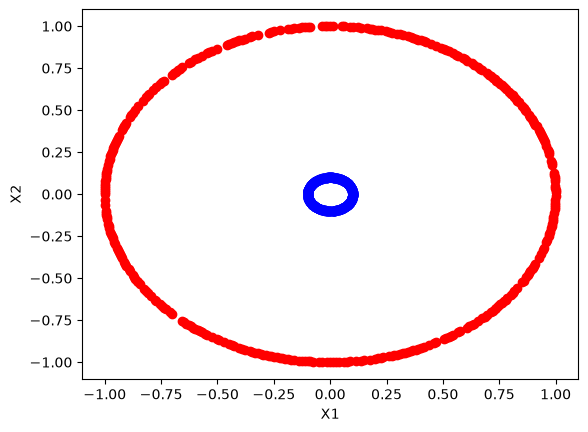
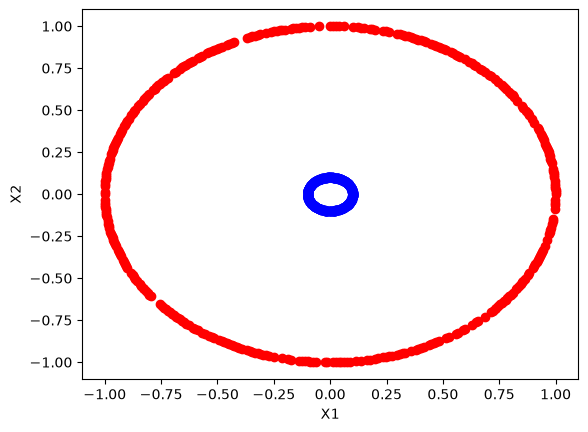
Sync MLD from ML

diff --git a/docs/02. Keras.html b/docs/02. Keras.html
@@ -304,7 +304,7 @@ window.Quarto = {
 <section id="데이터" class="level2" data-number="2.1">
 <h2 data-number="2.1" class="anchored" data-anchor-id="데이터"><span class="header-section-number">2.1</span> 데이터</h2>
 <p>아래 예제에서는 <a href="https://scikit-learn.org/stable/modules/generated/sklearn.datasets.make_circles.html">sklearn.datasets.make_circles</a>로 생성된 가상의 데이터를 통한 실습을 진행해 본다.</p>
-<div id="88801a4d-a0cb-4829-ab6a-2c6bd42aecd9" class="cell" data-quarto-private-1="{&quot;key&quot;:&quot;execution&quot;,&quot;value&quot;:{&quot;iopub.execute_input&quot;:&quot;2026-07-19T09:36:19.293541Z&quot;,&quot;iopub.status.busy&quot;:&quot;2026-07-19T09:36:19.293541Z&quot;,&quot;iopub.status.idle&quot;:&quot;2026-07-19T09:36:21.800364Z&quot;,&quot;shell.execute_reply&quot;:&quot;2026-07-19T09:36:21.800364Z&quot;}}" data-execution_count="1">
+<div id="88801a4d-a0cb-4829-ab6a-2c6bd42aecd9" class="cell" data-quarto-private-1="{&quot;key&quot;:&quot;execution&quot;,&quot;value&quot;:{&quot;iopub.execute_input&quot;:&quot;2026-07-19T12:25:03.441601Z&quot;,&quot;iopub.status.busy&quot;:&quot;2026-07-19T12:25:03.441601Z&quot;,&quot;iopub.status.idle&quot;:&quot;2026-07-19T12:25:04.827017Z&quot;,&quot;shell.execute_reply&quot;:&quot;2026-07-19T12:25:04.827017Z&quot;}}" data-execution_count="1">
 <div class="code-copy-outer-scaffold"><div class="sourceCode cell-code" id="cb1"><pre class="sourceCode python code-with-copy"><code class="sourceCode python"><span id="cb1-1"><a href="#cb1-1" aria-hidden="true" tabindex="-1"></a><span class="im">from</span> sklearn.datasets <span class="im">import</span> make_circles</span>
 <span id="cb1-2"><a href="#cb1-2" aria-hidden="true" tabindex="-1"></a></span>
 <span id="cb1-3"><a href="#cb1-3" aria-hidden="true" tabindex="-1"></a>X, targets <span class="op">=</span> make_circles(n_samples <span class="op">=</span> <span class="dv">1000</span>, factor<span class="op">=</span><span class="fl">0.1</span>)</span>
@@ -315,7 +315,7 @@ window.Quarto = {
 </div>
 <p><code>X</code>는 두 개의 특성변수로 구성된다.</p>
 <p>타깃 변수는 두 개의 클래스로 구성된다.</p>
-<div id="fd694b83-f9b6-4407-b958-e592b610cb41" class="cell" data-quarto-private-1="{&quot;key&quot;:&quot;execution&quot;,&quot;value&quot;:{&quot;iopub.execute_input&quot;:&quot;2026-07-19T09:36:21.802458Z&quot;,&quot;iopub.status.busy&quot;:&quot;2026-07-19T09:36:21.802458Z&quot;,&quot;iopub.status.idle&quot;:&quot;2026-07-19T09:36:22.453850Z&quot;,&quot;shell.execute_reply&quot;:&quot;2026-07-19T09:36:22.453850Z&quot;}}" data-execution_count="2">
+<div id="fd694b83-f9b6-4407-b958-e592b610cb41" class="cell" data-quarto-private-1="{&quot;key&quot;:&quot;execution&quot;,&quot;value&quot;:{&quot;iopub.execute_input&quot;:&quot;2026-07-19T12:25:04.827017Z&quot;,&quot;iopub.status.busy&quot;:&quot;2026-07-19T12:25:04.827017Z&quot;,&quot;iopub.status.idle&quot;:&quot;2026-07-19T12:25:05.230054Z&quot;,&quot;shell.execute_reply&quot;:&quot;2026-07-19T12:25:05.229508Z&quot;}}" data-execution_count="2">
 <div class="code-copy-outer-scaffold"><div class="sourceCode cell-code" id="cb2"><pre class="sourceCode python code-with-copy"><code class="sourceCode python"><span id="cb2-1"><a href="#cb2-1" aria-hidden="true" tabindex="-1"></a><span class="im">import</span> matplotlib.pyplot <span class="im">as</span> plt</span>
 <span id="cb2-2"><a href="#cb2-2" aria-hidden="true" tabindex="-1"></a>plt.scatter(X_training[Targets_training<span class="op">==</span><span class="dv">0</span>, <span class="dv">0</span>], X_training[Targets_training<span class="op">==</span><span class="dv">0</span>, <span class="dv">1</span>], color<span class="op">=</span><span class="st">'red'</span>)</span>
 <span id="cb2-3"><a href="#cb2-3" aria-hidden="true" tabindex="-1"></a>plt.scatter(X_training[Targets_training<span class="op">==</span><span class="dv">1</span>, <span class="dv">0</span>], X_training[Targets_training<span class="op">==</span><span class="dv">1</span>, <span class="dv">1</span>], color<span class="op">=</span><span class="st">'blue'</span>)</span>
@@ -338,18 +338,21 @@ window.Quarto = {
 <p><a href="https://keras.io/api/models/sequential/"><code>tensorflow.keras.Sequential</code></a> : 가장 간단한 모델 유형으로, layer를 선형으로 쌓은 구조이다. 즉, 각 layer가 하나의 입력과 하나의 출력만을 갖고, 순차적으로 연결된다.</p>
 <p>여러 입력이나 출력, 분기 또는 잔차 연결이 있는 복잡한 모델에는 Functional API 또는 모델 subclassing을 사용할 수 있다.</p>
 <p>다음은 sequential 모델의 예시이다.</p>
-<div id="436a456f-56ed-40c2-b49c-dfc74572dbf8" class="cell" data-quarto-private-1="{&quot;key&quot;:&quot;execution&quot;,&quot;value&quot;:{&quot;iopub.execute_input&quot;:&quot;2026-07-19T09:36:22.457775Z&quot;,&quot;iopub.status.busy&quot;:&quot;2026-07-19T09:36:22.457329Z&quot;,&quot;iopub.status.idle&quot;:&quot;2026-07-19T09:36:26.281742Z&quot;,&quot;shell.execute_reply&quot;:&quot;2026-07-19T09:36:26.281742Z&quot;}}" data-execution_count="3">
+<div id="436a456f-56ed-40c2-b49c-dfc74572dbf8" class="cell" data-quarto-private-1="{&quot;key&quot;:&quot;execution&quot;,&quot;value&quot;:{&quot;iopub.execute_input&quot;:&quot;2026-07-19T12:25:05.230054Z&quot;,&quot;iopub.status.busy&quot;:&quot;2026-07-19T12:25:05.230054Z&quot;,&quot;iopub.status.idle&quot;:&quot;2026-07-19T12:25:09.493031Z&quot;,&quot;shell.execute_reply&quot;:&quot;2026-07-19T12:25:09.492675Z&quot;}}" data-execution_count="3">
 <div class="code-copy-outer-scaffold"><div class="sourceCode cell-code" id="cb3"><pre class="sourceCode python code-with-copy"><code class="sourceCode python"><span id="cb3-1"><a href="#cb3-1" aria-hidden="true" tabindex="-1"></a><span class="im">from</span> tensorflow.keras <span class="im">import</span> Sequential</span>
 <span id="cb3-2"><a href="#cb3-2" aria-hidden="true" tabindex="-1"></a></span>
 <span id="cb3-3"><a href="#cb3-3" aria-hidden="true" tabindex="-1"></a>model <span class="op">=</span> Sequential()</span></code></pre></div><button title="Copy to Clipboard" class="code-copy-button"><i class="bi"></i></button></div>
 </div>
-<div id="c77ee398-1b2c-4e76-b372-3ba3f7fbe887" class="cell" data-quarto-private-1="{&quot;key&quot;:&quot;execution&quot;,&quot;value&quot;:{&quot;iopub.execute_input&quot;:&quot;2026-07-19T09:36:26.281742Z&quot;,&quot;iopub.status.busy&quot;:&quot;2026-07-19T09:36:26.281742Z&quot;,&quot;iopub.status.idle&quot;:&quot;2026-07-19T09:36:26.289558Z&quot;,&quot;shell.execute_reply&quot;:&quot;2026-07-19T09:36:26.289558Z&quot;}}">
+<div id="c77ee398-1b2c-4e76-b372-3ba3f7fbe887" class="cell" data-quarto-private-1="{&quot;key&quot;:&quot;execution&quot;,&quot;value&quot;:{&quot;iopub.execute_input&quot;:&quot;2026-07-19T12:25:09.494552Z&quot;,&quot;iopub.status.busy&quot;:&quot;2026-07-19T12:25:09.494552Z&quot;,&quot;iopub.status.idle&quot;:&quot;2026-07-19T12:25:09.499001Z&quot;,&quot;shell.execute_reply&quot;:&quot;2026-07-19T12:25:09.499001Z&quot;}}" data-execution_count="4">
 <div class="code-copy-outer-scaffold"><div class="sourceCode cell-code" id="cb4"><pre class="sourceCode python code-with-copy"><code class="sourceCode python"><span id="cb4-1"><a href="#cb4-1" aria-hidden="true" tabindex="-1"></a><span class="bu">isinstance</span>(model, Sequential)</span></code></pre></div><button title="Copy to Clipboard" class="code-copy-button"><i class="bi"></i></button></div>
+<div class="cell-output cell-output-display" data-execution_count="4">
+<pre><code>True</code></pre>
 </div>
-<div id="507bf730-1f76-480c-b5bb-b5a37e29f03c" class="cell" data-quarto-private-1="{&quot;key&quot;:&quot;execution&quot;,&quot;value&quot;:{&quot;iopub.execute_input&quot;:&quot;2026-07-19T09:36:26.289558Z&quot;,&quot;iopub.status.busy&quot;:&quot;2026-07-19T09:36:26.289558Z&quot;,&quot;iopub.status.idle&quot;:&quot;2026-07-19T09:36:26.296572Z&quot;,&quot;shell.execute_reply&quot;:&quot;2026-07-19T09:36:26.296572Z&quot;}}" data-execution_count="5">
-<div class="code-copy-outer-scaffold"><div class="sourceCode cell-code" id="cb5"><pre class="sourceCode python code-with-copy"><code class="sourceCode python"><span id="cb5-1"><a href="#cb5-1" aria-hidden="true" tabindex="-1"></a><span class="co"># 아래와 같이 생성하기도 한다.</span></span>
-<span id="cb5-2"><a href="#cb5-2" aria-hidden="true" tabindex="-1"></a><span class="im">import</span> tensorflow <span class="im">as</span> tf</span>
-<span id="cb5-3"><a href="#cb5-3" aria-hidden="true" tabindex="-1"></a>model <span class="op">=</span> tf.keras.Sequential()</span></code></pre></div><button title="Copy to Clipboard" class="code-copy-button"><i class="bi"></i></button></div>
+</div>
+<div id="507bf730-1f76-480c-b5bb-b5a37e29f03c" class="cell" data-quarto-private-1="{&quot;key&quot;:&quot;execution&quot;,&quot;value&quot;:{&quot;iopub.execute_input&quot;:&quot;2026-07-19T12:25:09.500685Z&quot;,&quot;iopub.status.busy&quot;:&quot;2026-07-19T12:25:09.500685Z&quot;,&quot;iopub.status.idle&quot;:&quot;2026-07-19T12:25:09.503892Z&quot;,&quot;shell.execute_reply&quot;:&quot;2026-07-19T12:25:09.503892Z&quot;}}" data-execution_count="5">
+<div class="code-copy-outer-scaffold"><div class="sourceCode cell-code" id="cb6"><pre class="sourceCode python code-with-copy"><code class="sourceCode python"><span id="cb6-1"><a href="#cb6-1" aria-hidden="true" tabindex="-1"></a><span class="co"># 아래와 같이 생성하기도 한다.</span></span>
+<span id="cb6-2"><a href="#cb6-2" aria-hidden="true" tabindex="-1"></a><span class="im">import</span> tensorflow <span class="im">as</span> tf</span>
+<span id="cb6-3"><a href="#cb6-3" aria-hidden="true" tabindex="-1"></a>model <span class="op">=</span> tf.keras.Sequential()</span></code></pre></div><button title="Copy to Clipboard" class="code-copy-button"><i class="bi"></i></button></div>
 </div>
 </section>
 <section id="layer" class="level2" data-number="2.3">
@@ -431,16 +434,16 @@ window.Quarto = {
 <ul>
 <li>이는 출력값이 0과 1 사이의 확률로 해석될 수 있도록 하기 위함이며, <span class="math inline">\(y\)</span>가 두 개의 클래스로 구성된 이진 분류 문제이기 때문이다.</li>
 </ul>
-<div id="fb073447-3582-4a6c-8892-0f84f692fa7f" class="cell" data-quarto-private-1="{&quot;key&quot;:&quot;execution&quot;,&quot;value&quot;:{&quot;iopub.execute_input&quot;:&quot;2026-07-19T09:36:26.296572Z&quot;,&quot;iopub.status.busy&quot;:&quot;2026-07-19T09:36:26.296572Z&quot;,&quot;iopub.status.idle&quot;:&quot;2026-07-19T09:36:26.355290Z&quot;,&quot;shell.execute_reply&quot;:&quot;2026-07-19T09:36:26.354903Z&quot;}}">
-<div class="code-copy-outer-scaffold"><div class="sourceCode cell-code" id="cb6"><pre class="sourceCode python code-with-copy"><code class="sourceCode python"><span id="cb6-1"><a href="#cb6-1" aria-hidden="true" tabindex="-1"></a><span class="im">from</span> tensorflow.keras.layers <span class="im">import</span> Input, Dense</span>
-<span id="cb6-2"><a href="#cb6-2" aria-hidden="true" tabindex="-1"></a></span>
-<span id="cb6-3"><a href="#cb6-3" aria-hidden="true" tabindex="-1"></a>model.add(Input(shape<span class="op">=</span>(<span class="dv">2</span>,)))</span>
-<span id="cb6-4"><a href="#cb6-4" aria-hidden="true" tabindex="-1"></a>model.add(Dense(units<span class="op">=</span><span class="dv">4</span>, activation<span class="op">=</span><span class="st">'relu'</span>))  <span class="co"># 2개의 feature variable을 받을 예정</span></span>
-<span id="cb6-5"><a href="#cb6-5" aria-hidden="true" tabindex="-1"></a>model.add(Dense(units<span class="op">=</span><span class="dv">2</span>, activation<span class="op">=</span><span class="st">'relu'</span>))</span>
-<span id="cb6-6"><a href="#cb6-6" aria-hidden="true" tabindex="-1"></a>model.add(Dense(units<span class="op">=</span><span class="dv">1</span>, activation<span class="op">=</span><span class="st">'sigmoid'</span>))   <span class="co"># binary class 구별을 위함</span></span></code></pre></div><button title="Copy to Clipboard" class="code-copy-button"><i class="bi"></i></button></div>
+<div id="fb073447-3582-4a6c-8892-0f84f692fa7f" class="cell" data-quarto-private-1="{&quot;key&quot;:&quot;execution&quot;,&quot;value&quot;:{&quot;iopub.execute_input&quot;:&quot;2026-07-19T12:25:09.505574Z&quot;,&quot;iopub.status.busy&quot;:&quot;2026-07-19T12:25:09.505574Z&quot;,&quot;iopub.status.idle&quot;:&quot;2026-07-19T12:25:09.559674Z&quot;,&quot;shell.execute_reply&quot;:&quot;2026-07-19T12:25:09.559170Z&quot;}}" data-execution_count="6">
+<div class="code-copy-outer-scaffold"><div class="sourceCode cell-code" id="cb7"><pre class="sourceCode python code-with-copy"><code class="sourceCode python"><span id="cb7-1"><a href="#cb7-1" aria-hidden="true" tabindex="-1"></a><span class="im">from</span> tensorflow.keras.layers <span class="im">import</span> Input, Dense</span>
+<span id="cb7-2"><a href="#cb7-2" aria-hidden="true" tabindex="-1"></a></span>
+<span id="cb7-3"><a href="#cb7-3" aria-hidden="true" tabindex="-1"></a>model.add(Input(shape<span class="op">=</span>(<span class="dv">2</span>,)))</span>
+<span id="cb7-4"><a href="#cb7-4" aria-hidden="true" tabindex="-1"></a>model.add(Dense(units<span class="op">=</span><span class="dv">4</span>, activation<span class="op">=</span><span class="st">'relu'</span>))  <span class="co"># 2개의 feature variable을 받을 예정</span></span>
+<span id="cb7-5"><a href="#cb7-5" aria-hidden="true" tabindex="-1"></a>model.add(Dense(units<span class="op">=</span><span class="dv">2</span>, activation<span class="op">=</span><span class="st">'relu'</span>))</span>
+<span id="cb7-6"><a href="#cb7-6" aria-hidden="true" tabindex="-1"></a>model.add(Dense(units<span class="op">=</span><span class="dv">1</span>, activation<span class="op">=</span><span class="st">'sigmoid'</span>))   <span class="co"># binary class 구별을 위함</span></span></code></pre></div><button title="Copy to Clipboard" class="code-copy-button"><i class="bi"></i></button></div>
 </div>
-<div id="6fe53860-51da-4a29-b3f8-0765ff39d0c8" class="cell" data-quarto-private-1="{&quot;key&quot;:&quot;execution&quot;,&quot;value&quot;:{&quot;iopub.execute_input&quot;:&quot;2026-07-19T09:36:26.355290Z&quot;,&quot;iopub.status.busy&quot;:&quot;2026-07-19T09:36:26.355290Z&quot;,&quot;iopub.status.idle&quot;:&quot;2026-07-19T09:36:26.373542Z&quot;,&quot;shell.execute_reply&quot;:&quot;2026-07-19T09:36:26.373542Z&quot;}}" data-execution_count="7">
-<div class="code-copy-outer-scaffold"><div class="sourceCode cell-code" id="cb7"><pre class="sourceCode python code-with-copy"><code class="sourceCode python"><span id="cb7-1"><a href="#cb7-1" aria-hidden="true" tabindex="-1"></a>model.summary()</span></code></pre></div><button title="Copy to Clipboard" class="code-copy-button"><i class="bi"></i></button></div>
+<div id="6fe53860-51da-4a29-b3f8-0765ff39d0c8" class="cell" data-quarto-private-1="{&quot;key&quot;:&quot;execution&quot;,&quot;value&quot;:{&quot;iopub.execute_input&quot;:&quot;2026-07-19T12:25:09.559674Z&quot;,&quot;iopub.status.busy&quot;:&quot;2026-07-19T12:25:09.559674Z&quot;,&quot;iopub.status.idle&quot;:&quot;2026-07-19T12:25:09.580947Z&quot;,&quot;shell.execute_reply&quot;:&quot;2026-07-19T12:25:09.580396Z&quot;}}" data-execution_count="7">
+<div class="code-copy-outer-scaffold"><div class="sourceCode cell-code" id="cb8"><pre class="sourceCode python code-with-copy"><code class="sourceCode python"><span id="cb8-1"><a href="#cb8-1" aria-hidden="true" tabindex="-1"></a>model.summary()</span></code></pre></div><button title="Copy to Clipboard" class="code-copy-button"><i class="bi"></i></button></div>
 <div class="cell-output cell-output-display">
 <pre style="white-space:pre;overflow-x:auto;line-height:normal;font-family:Menlo,'DejaVu Sans Mono',consolas,'Courier New',monospace"><span style="font-weight: bold">Model: "sequential_1"</span>
 </pre>
@@ -486,12 +489,12 @@ window.Quarto = {
 <p>이는 이번 예제에서 2개의 클래스로 구성된 y를 분류하는 문제를 다루기 때문이다.</p>
 <p>이 손실 함수의 식은 다음과 같다.</p>
 <p><span class="math display">\[L(y, \hat y) = - y  \log(\hat y) - (1 - y)  \log(1 - \hat y)\]</span></p>
-<div id="d38945f8-ece0-421c-b945-70e2d836bcf5" class="cell" data-quarto-private-1="{&quot;key&quot;:&quot;execution&quot;,&quot;value&quot;:{&quot;iopub.execute_input&quot;:&quot;2026-07-19T09:36:26.373542Z&quot;,&quot;iopub.status.busy&quot;:&quot;2026-07-19T09:36:26.373542Z&quot;,&quot;iopub.status.idle&quot;:&quot;2026-07-19T09:36:26.388494Z&quot;,&quot;shell.execute_reply&quot;:&quot;2026-07-19T09:36:26.387693Z&quot;}}" data-execution_count="8">
-<div class="code-copy-outer-scaffold"><div class="sourceCode cell-code" id="cb8"><pre class="sourceCode python code-with-copy"><code class="sourceCode python"><span id="cb8-1"><a href="#cb8-1" aria-hidden="true" tabindex="-1"></a>model.<span class="bu">compile</span>(loss<span class="op">=</span><span class="st">'binary_crossentropy'</span>,</span>
-<span id="cb8-2"><a href="#cb8-2" aria-hidden="true" tabindex="-1"></a>              optimizer<span class="op">=</span><span class="st">'adam'</span>,</span>
-<span id="cb8-3"><a href="#cb8-3" aria-hidden="true" tabindex="-1"></a>              metrics<span class="op">=</span>[<span class="st">'accuracy'</span>])</span></code></pre></div><button title="Copy to Clipboard" class="code-copy-button"><i class="bi"></i></button></div>
+<div id="d38945f8-ece0-421c-b945-70e2d836bcf5" class="cell" data-quarto-private-1="{&quot;key&quot;:&quot;execution&quot;,&quot;value&quot;:{&quot;iopub.execute_input&quot;:&quot;2026-07-19T12:25:09.580947Z&quot;,&quot;iopub.status.busy&quot;:&quot;2026-07-19T12:25:09.580947Z&quot;,&quot;iopub.status.idle&quot;:&quot;2026-07-19T12:25:09.597815Z&quot;,&quot;shell.execute_reply&quot;:&quot;2026-07-19T12:25:09.597815Z&quot;}}" data-execution_count="8">
+<div class="code-copy-outer-scaffold"><div class="sourceCode cell-code" id="cb9"><pre class="sourceCode python code-with-copy"><code class="sourceCode python"><span id="cb9-1"><a href="#cb9-1" aria-hidden="true" tabindex="-1"></a>model.<span class="bu">compile</span>(loss<span class="op">=</span><span class="st">'binary_crossentropy'</span>,</span>
+<span id="cb9-2"><a href="#cb9-2" aria-hidden="true" tabindex="-1"></a>              optimizer<span class="op">=</span><span class="st">'adam'</span>,</span>
+<span id="cb9-3"><a href="#cb9-3" aria-hidden="true" tabindex="-1"></a>              metrics<span class="op">=</span>[<span class="st">'accuracy'</span>])</span></code></pre></div><button title="Copy to Clipboard" class="code-copy-button"><i class="bi"></i></button></div>
 <div class="cell-output cell-output-stdout">
-<pre><code>WARNING:tensorflow:TensorFlow GPU support is not available on native Windows for TensorFlow &gt;= 2.11. Even if CUDA/cuDNN are installed, GPU will not be used. Please use WSL2 or the TensorFlow-DirectML plugin.</code></pre>
+<pre><code></code></pre>
 </div>
 </div>
 <section id="loss-function" class="level3" data-number="2.4.1">
@@ -603,29 +606,29 @@ window.Quarto = {
 <li><p><code>verbose</code> : 학습 진행 상태 출력 여부를 설정 (0: 출력 없음, 1: 기본 출력, 2: 에포크별 출력 등)</p></li>
 <li><p><code>shuffle=True</code> : 각 epoch가 시작되기 전에 훈련 데이터를 섞는다. 시계열처럼 자료의 순서가 중요한 경우에는 주의해야 한다.</p></li>
 </ul>
-<div id="34ebd0c9-e84f-4f3d-9a70-d4ed66eb5e32" class="cell" data-quarto-private-1="{&quot;key&quot;:&quot;execution&quot;,&quot;value&quot;:{&quot;iopub.execute_input&quot;:&quot;2026-07-19T09:36:26.388818Z&quot;,&quot;iopub.status.busy&quot;:&quot;2026-07-19T09:36:26.388818Z&quot;,&quot;iopub.status.idle&quot;:&quot;2026-07-19T09:36:30.608924Z&quot;,&quot;shell.execute_reply&quot;:&quot;2026-07-19T09:36:30.607840Z&quot;}}" data-execution_count="9">
-<div class="code-copy-outer-scaffold"><div class="sourceCode cell-code" id="cb10"><pre class="sourceCode python code-with-copy"><code class="sourceCode python"><span id="cb10-1"><a href="#cb10-1" aria-hidden="true" tabindex="-1"></a>history <span class="op">=</span> model.fit(X_training, Targets_training, epochs<span class="op">=</span><span class="dv">10</span>, batch_size<span class="op">=</span><span class="dv">5</span>, verbose<span class="op">=</span><span class="dv">2</span>)</span></code></pre></div><button title="Copy to Clipboard" class="code-copy-button"><i class="bi"></i></button></div>
+<div id="34ebd0c9-e84f-4f3d-9a70-d4ed66eb5e32" class="cell" data-quarto-private-1="{&quot;key&quot;:&quot;execution&quot;,&quot;value&quot;:{&quot;iopub.execute_input&quot;:&quot;2026-07-19T12:25:09.599850Z&quot;,&quot;iopub.status.busy&quot;:&quot;2026-07-19T12:25:09.599850Z&quot;,&quot;iopub.status.idle&quot;:&quot;2026-07-19T12:25:12.002326Z&quot;,&quot;shell.execute_reply&quot;:&quot;2026-07-19T12:25:12.002326Z&quot;}}" data-execution_count="9">
+<div class="code-copy-outer-scaffold"><div class="sourceCode cell-code" id="cb11"><pre class="sourceCode python code-with-copy"><code class="sourceCode python"><span id="cb11-1"><a href="#cb11-1" aria-hidden="true" tabindex="-1"></a>history <span class="op">=</span> model.fit(X_training, Targets_training, epochs<span class="op">=</span><span class="dv">10</span>, batch_size<span class="op">=</span><span class="dv">5</span>, verbose<span class="op">=</span><span class="dv">2</span>)</span></code></pre></div><button title="Copy to Clipboard" class="code-copy-button"><i class="bi"></i></button></div>
 <div class="cell-output cell-output-stdout">
 <pre><code>Epoch 1/10
-150/150 - 1s - 8ms/step - accuracy: 0.6920 - loss: 0.6095
+150/150 - 1s - 5ms/step - accuracy: 0.4920 - loss: 0.6727
 Epoch 2/10
-150/150 - 0s - 2ms/step - accuracy: 0.8960 - loss: 0.5650
+150/150 - 0s - 1ms/step - accuracy: 0.6507 - loss: 0.6342
 Epoch 3/10
-150/150 - 0s - 2ms/step - accuracy: 0.9747 - loss: 0.5111
+150/150 - 0s - 901us/step - accuracy: 0.8320 - loss: 0.5680
 Epoch 4/10
-150/150 - 0s - 2ms/step - accuracy: 0.9840 - loss: 0.4550
+150/150 - 0s - 1ms/step - accuracy: 0.9200 - loss: 0.5007
 Epoch 5/10
-150/150 - 0s - 2ms/step - accuracy: 0.9933 - loss: 0.4021
+150/150 - 0s - 1ms/step - accuracy: 0.9213 - loss: 0.4479
 Epoch 6/10
-150/150 - 0s - 2ms/step - accuracy: 1.0000 - loss: 0.3531
+150/150 - 0s - 1ms/step - accuracy: 0.9227 - loss: 0.4082
 Epoch 7/10
-150/150 - 0s - 2ms/step - accuracy: 1.0000 - loss: 0.3093
+150/150 - 0s - 1ms/step - accuracy: 0.9267 - loss: 0.3769
 Epoch 8/10
-150/150 - 0s - 2ms/step - accuracy: 1.0000 - loss: 0.2709
+150/150 - 0s - 1ms/step - accuracy: 0.9293 - loss: 0.3511
 Epoch 9/10
-150/150 - 0s - 2ms/step - accuracy: 1.0000 - loss: 0.2381
+150/150 - 0s - 1ms/step - accuracy: 0.9293 - loss: 0.3296
 Epoch 10/10
-150/150 - 0s - 2ms/step - accuracy: 1.0000 - loss: 0.2107</code></pre>
+150/150 - 0s - 1ms/step - accuracy: 0.9320 - loss: 0.3106</code></pre>
 </div>
 </div>
 <section id="평가" class="level3" data-number="2.5.1">
@@ -645,15 +648,18 @@ Epoch 10/10
 <ul>
 <li>이 예제에서는 <code>loss='binary_crossentropy'</code>와 <code>metrics=['accuracy']</code>이다.</li>
 </ul>
-<div id="b2dce297-c59d-4a6e-8d32-16d6cbdd252d" class="cell" data-quarto-private-1="{&quot;key&quot;:&quot;execution&quot;,&quot;value&quot;:{&quot;iopub.execute_input&quot;:&quot;2026-07-19T09:36:30.611920Z&quot;,&quot;iopub.status.busy&quot;:&quot;2026-07-19T09:36:30.611920Z&quot;,&quot;iopub.status.idle&quot;:&quot;2026-07-19T09:36:30.910032Z&quot;,&quot;shell.execute_reply&quot;:&quot;2026-07-19T09:36:30.910032Z&quot;}}">
-<div class="code-copy-outer-scaffold"><div class="sourceCode cell-code" id="cb12"><pre class="sourceCode python code-with-copy"><code class="sourceCode python"><span id="cb12-1"><a href="#cb12-1" aria-hidden="true" tabindex="-1"></a>test_results <span class="op">=</span> model.evaluate(</span>
-<span id="cb12-2"><a href="#cb12-2" aria-hidden="true" tabindex="-1"></a>    X_testing,</span>
-<span id="cb12-3"><a href="#cb12-3" aria-hidden="true" tabindex="-1"></a>    Targets_testing,</span>
-<span id="cb12-4"><a href="#cb12-4" aria-hidden="true" tabindex="-1"></a>    verbose<span class="op">=</span><span class="dv">0</span>,</span>
-<span id="cb12-5"><a href="#cb12-5" aria-hidden="true" tabindex="-1"></a>    return_dict<span class="op">=</span><span class="va">True</span></span>
-<span id="cb12-6"><a href="#cb12-6" aria-hidden="true" tabindex="-1"></a>)</span>
-<span id="cb12-7"><a href="#cb12-7" aria-hidden="true" tabindex="-1"></a></span>
-<span id="cb12-8"><a href="#cb12-8" aria-hidden="true" tabindex="-1"></a><span class="bu">print</span>(test_results)</span></code></pre></div><button title="Copy to Clipboard" class="code-copy-button"><i class="bi"></i></button></div>
+<div id="b2dce297-c59d-4a6e-8d32-16d6cbdd252d" class="cell" data-quarto-private-1="{&quot;key&quot;:&quot;execution&quot;,&quot;value&quot;:{&quot;iopub.execute_input&quot;:&quot;2026-07-19T12:25:12.004889Z&quot;,&quot;iopub.status.busy&quot;:&quot;2026-07-19T12:25:12.004889Z&quot;,&quot;iopub.status.idle&quot;:&quot;2026-07-19T12:25:12.222148Z&quot;,&quot;shell.execute_reply&quot;:&quot;2026-07-19T12:25:12.222148Z&quot;}}" data-execution_count="10">
+<div class="code-copy-outer-scaffold"><div class="sourceCode cell-code" id="cb13"><pre class="sourceCode python code-with-copy"><code class="sourceCode python"><span id="cb13-1"><a href="#cb13-1" aria-hidden="true" tabindex="-1"></a>test_results <span class="op">=</span> model.evaluate(</span>
+<span id="cb13-2"><a href="#cb13-2" aria-hidden="true" tabindex="-1"></a>    X_testing,</span>
+<span id="cb13-3"><a href="#cb13-3" aria-hidden="true" tabindex="-1"></a>    Targets_testing,</span>
+<span id="cb13-4"><a href="#cb13-4" aria-hidden="true" tabindex="-1"></a>    verbose<span class="op">=</span><span class="dv">0</span>,</span>
+<span id="cb13-5"><a href="#cb13-5" aria-hidden="true" tabindex="-1"></a>    return_dict<span class="op">=</span><span class="va">True</span></span>
+<span id="cb13-6"><a href="#cb13-6" aria-hidden="true" tabindex="-1"></a>)</span>
+<span id="cb13-7"><a href="#cb13-7" aria-hidden="true" tabindex="-1"></a></span>
+<span id="cb13-8"><a href="#cb13-8" aria-hidden="true" tabindex="-1"></a><span class="bu">print</span>(test_results)</span></code></pre></div><button title="Copy to Clipboard" class="code-copy-button"><i class="bi"></i></button></div>
+<div class="cell-output cell-output-stdout">
+<pre><code>{'accuracy': 0.9359999895095825, 'loss': 0.3053290545940399}</code></pre>
+</div>
 </div>
 </section>
 <section id="예측" class="level3" data-number="2.5.2">
@@ -663,15 +669,15 @@ Epoch 10/10
 <p><code>y_pred = model.predict(X_new)</code></p>
 <p>현재 모형의 마지막 층의 활성함수인 sigmoid 함수는 0과 1 사이의 실수(확률)를 내보내기 때문에, <code>predict()</code>의 출력은 0과 1 사이의 실수값(확률)이다.</p>
 <p>이 확률값을 이용해 클래스를 결정한다. - 예측확률이 0.5보다 크면 클래스 1로, 그렇지 않으면 클래스 0으로 분류한다. - 이 과정은 신경망 모형의 출력에 별도의 기준을 적용하는 코드로 작성해 주어야 한다.</p>
-<div id="1154ee0e-7e62-48f6-aeb8-ed5032cd18ee" class="cell" data-quarto-private-1="{&quot;key&quot;:&quot;execution&quot;,&quot;value&quot;:{&quot;iopub.execute_input&quot;:&quot;2026-07-19T09:36:30.914625Z&quot;,&quot;iopub.status.busy&quot;:&quot;2026-07-19T09:36:30.914625Z&quot;,&quot;iopub.status.idle&quot;:&quot;2026-07-19T09:36:31.129495Z&quot;,&quot;shell.execute_reply&quot;:&quot;2026-07-19T09:36:31.129495Z&quot;}}">
-<div class="code-copy-outer-scaffold"><div class="sourceCode cell-code" id="cb13"><pre class="sourceCode python code-with-copy"><code class="sourceCode python"><span id="cb13-1"><a href="#cb13-1" aria-hidden="true" tabindex="-1"></a><span class="im">import</span> numpy <span class="im">as</span> np</span>
-<span id="cb13-2"><a href="#cb13-2" aria-hidden="true" tabindex="-1"></a>y_prob <span class="op">=</span> model.predict(X_testing, verbose<span class="op">=</span><span class="dv">0</span>)</span>
-<span id="cb13-3"><a href="#cb13-3" aria-hidden="true" tabindex="-1"></a>predicted_class <span class="op">=</span> np.where(y_prob <span class="op">&gt;</span> <span class="fl">0.5</span>, <span class="dv">1</span>, <span class="dv">0</span>)</span></code></pre></div><button title="Copy to Clipboard" class="code-copy-button"><i class="bi"></i></button></div>
+<div id="1154ee0e-7e62-48f6-aeb8-ed5032cd18ee" class="cell" data-quarto-private-1="{&quot;key&quot;:&quot;execution&quot;,&quot;value&quot;:{&quot;iopub.execute_input&quot;:&quot;2026-07-19T12:25:12.222148Z&quot;,&quot;iopub.status.busy&quot;:&quot;2026-07-19T12:25:12.222148Z&quot;,&quot;iopub.status.idle&quot;:&quot;2026-07-19T12:25:12.449828Z&quot;,&quot;shell.execute_reply&quot;:&quot;2026-07-19T12:25:12.449828Z&quot;}}" data-execution_count="11">
+<div class="code-copy-outer-scaffold"><div class="sourceCode cell-code" id="cb15"><pre class="sourceCode python code-with-copy"><code class="sourceCode python"><span id="cb15-1"><a href="#cb15-1" aria-hidden="true" tabindex="-1"></a><span class="im">import</span> numpy <span class="im">as</span> np</span>
+<span id="cb15-2"><a href="#cb15-2" aria-hidden="true" tabindex="-1"></a>y_prob <span class="op">=</span> model.predict(X_testing, verbose<span class="op">=</span><span class="dv">0</span>)</span>
+<span id="cb15-3"><a href="#cb15-3" aria-hidden="true" tabindex="-1"></a>predicted_class <span class="op">=</span> np.where(y_prob <span class="op">&gt;</span> <span class="fl">0.5</span>, <span class="dv">1</span>, <span class="dv">0</span>)</span></code></pre></div><button title="Copy to Clipboard" class="code-copy-button"><i class="bi"></i></button></div>
 </div>
 <p>예측값과 실제값을 비교해 보자.</p>
-<div id="0e76e9c2-233a-4f3c-ad6e-648318b3e42c" class="cell" data-quarto-private-1="{&quot;key&quot;:&quot;execution&quot;,&quot;value&quot;:{&quot;iopub.execute_input&quot;:&quot;2026-07-19T09:36:31.129495Z&quot;,&quot;iopub.status.busy&quot;:&quot;2026-07-19T09:36:31.129495Z&quot;,&quot;iopub.status.idle&quot;:&quot;2026-07-19T09:36:31.154718Z&quot;,&quot;shell.execute_reply&quot;:&quot;2026-07-19T09:36:31.154718Z&quot;}}" data-execution_count="12">
-<div class="code-copy-outer-scaffold"><div class="sourceCode cell-code" id="cb14"><pre class="sourceCode python code-with-copy"><code class="sourceCode python"><span id="cb14-1"><a href="#cb14-1" aria-hidden="true" tabindex="-1"></a><span class="im">import</span> pandas <span class="im">as</span> pd</span>
-<span id="cb14-2"><a href="#cb14-2" aria-hidden="true" tabindex="-1"></a>pd.DataFrame(np.c_[predicted_class, Targets_testing], columns<span class="op">=</span>[<span class="st">'predicted'</span>, <span class="st">'actual'</span>]).head(<span class="dv">10</span>)</span></code></pre></div><button title="Copy to Clipboard" class="code-copy-button"><i class="bi"></i></button></div>
+<div id="0e76e9c2-233a-4f3c-ad6e-648318b3e42c" class="cell" data-quarto-private-1="{&quot;key&quot;:&quot;execution&quot;,&quot;value&quot;:{&quot;iopub.execute_input&quot;:&quot;2026-07-19T12:25:12.449828Z&quot;,&quot;iopub.status.busy&quot;:&quot;2026-07-19T12:25:12.449828Z&quot;,&quot;iopub.status.idle&quot;:&quot;2026-07-19T12:25:12.466579Z&quot;,&quot;shell.execute_reply&quot;:&quot;2026-07-19T12:25:12.466579Z&quot;}}" data-execution_count="12">
+<div class="code-copy-outer-scaffold"><div class="sourceCode cell-code" id="cb16"><pre class="sourceCode python code-with-copy"><code class="sourceCode python"><span id="cb16-1"><a href="#cb16-1" aria-hidden="true" tabindex="-1"></a><span class="im">import</span> pandas <span class="im">as</span> pd</span>
+<span id="cb16-2"><a href="#cb16-2" aria-hidden="true" tabindex="-1"></a>pd.DataFrame(np.c_[predicted_class, Targets_testing], columns<span class="op">=</span>[<span class="st">'predicted'</span>, <span class="st">'actual'</span>]).head(<span class="dv">10</span>)</span></code></pre></div><button title="Copy to Clipboard" class="code-copy-button"><i class="bi"></i></button></div>
 <div class="cell-output cell-output-display" data-execution_count="12">
 <div>
 
@@ -687,18 +693,18 @@ Epoch 10/10
 <tbody>
 <tr class="odd">
 <th data-quarto-table-cell-role="th">0</th>
-<td>0</td>
-<td>0</td>
+<td>1</td>
+<td>1</td>
 </tr>
 <tr class="even">
 <th data-quarto-table-cell-role="th">1</th>
-<td>0</td>
-<td>0</td>
+<td>1</td>
+<td>1</td>
 </tr>
 <tr class="odd">
 <th data-quarto-table-cell-role="th">2</th>
 <td>1</td>
-<td>1</td>
+<td>0</td>
 </tr>
 <tr class="even">
 <th data-quarto-table-cell-role="th">3</th>
@@ -712,8 +718,8 @@ Epoch 10/10
 </tr>
 <tr class="even">
 <th data-quarto-table-cell-role="th">5</th>
-<td>0</td>
-<td>0</td>
+<td>1</td>
+<td>1</td>
 </tr>
 <tr class="odd">
 <th data-quarto-table-cell-role="th">6</th>
@@ -722,13 +728,13 @@ Epoch 10/10
 </tr>
 <tr class="even">
 <th data-quarto-table-cell-role="th">7</th>
-<td>0</td>
-<td>0</td>
+<td>1</td>
+<td>1</td>
 </tr>
 <tr class="odd">
 <th data-quarto-table-cell-role="th">8</th>
-<td>0</td>
-<td>0</td>
+<td>1</td>
+<td>1</td>
 </tr>
 <tr class="even">
 <th data-quarto-table-cell-role="th">9</th>